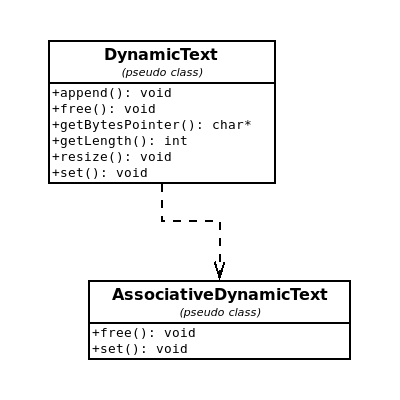
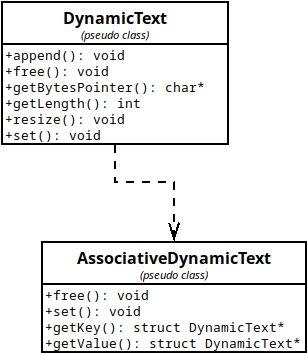
feat: Add two methods to pseudo class AssociativeDynamicText + update unit tests.

Changed region(s): [[0.0, 0.0, 0.7597, 0.5609], [0.1169, 0.4986, 1.0, 1.0], [0.5552, 0.4986, 0.5844, 0.5297]]

diff --git a/src/AssociativeDynamicText/AssociativeDynamicText.class.c b/src/AssociativeDynamicText/AssociativeDynamicText.class.c
@@ -11,11 +11,14 @@ struct AssociativeDynamicText {
     /* Function pointers for pseudo OOP in C. */
     void (*free)(struct AssociativeDynamicText** element, int* errorNumber, char* filename, int lineNumber);
     void (*set)(struct AssociativeDynamicText** element, char* text, int* errorNumber, char* filename, int lineNumber);
+    struct DynamicText* (*getKey)(struct AssociativeDynamicText** element, int* errorNumber, char* filename, int lineNumber);
+    struct DynamicText* (*getValue)(struct AssociativeDynamicText** element, int* errorNumber, char* filename, int lineNumber);
 };
-
 
 void freeAssociativeDynamicText(struct AssociativeDynamicText** element, int* errorNumber, char* filename, int lineNumber);
 void setValueInAssociativeDynamicText(struct AssociativeDynamicText** element, char* text, int* errorNumber, char* filename, int lineNumber);
+struct DynamicText* getKeyInAssociativeDynamicText(struct AssociativeDynamicText** element, int* errorNumber, char* filename, int lineNumber);
+struct DynamicText* getValueInAssociativeDynamicText(struct AssociativeDynamicText** element, int* errorNumber, char* filename, int lineNumber);
 
 
 struct AssociativeDynamicText*
@@ -56,6 +59,8 @@ allocateAssociativeDynamicTextByKey(char* key, int* errorNumber, char* filename,
     /* Function pointers for pseudo OOP in C. */
     element->free = &freeAssociativeDynamicText;
     element->set = &setValueInAssociativeDynamicText;
+    element->getKey = &getKeyInAssociativeDynamicText;
+    element->getValue = &getValueInAssociativeDynamicText;
 
     *errorNumber = 0;
 
@@ -120,4 +125,54 @@ setValueInAssociativeDynamicText(struct AssociativeDynamicText** element, char* 
     internalValue->set(&internalValue, text, errorNumber, filename, lineNumber);
 
     *errorNumber = 0;
+}
+
+
+struct DynamicText*
+getKeyInAssociativeDynamicText(struct AssociativeDynamicText** element, int* errorNumber, char* filename, int lineNumber)
+{
+    if (NULL == element)
+    {
+        appendMessageToErrorLog("Parameter \"element\" is NULL!", __func__, filename, lineNumber);
+        *errorNumber = 4000;
+
+        return NULL;
+    }
+
+    if (NULL == (*element))
+    {
+        appendMessageToErrorLog("Pointer \"element\" is NULL!", __func__, filename, lineNumber);
+        *errorNumber = 4010;
+
+        return NULL;
+    }
+
+    *errorNumber = 0;
+
+    return (*element)->internalKey;
+}
+
+
+struct DynamicText*
+getValueInAssociativeDynamicText(struct AssociativeDynamicText** element, int* errorNumber, char* filename, int lineNumber)
+{
+    if (NULL == element)
+    {
+        appendMessageToErrorLog("Parameter \"element\" is NULL!", __func__, filename, lineNumber);
+        *errorNumber = 5000;
+
+        return NULL;
+    }
+
+    if (NULL == (*element))
+    {
+        appendMessageToErrorLog("Pointer \"element\" is NULL!", __func__, filename, lineNumber);
+        *errorNumber = 5010;
+
+        return NULL;
+    }
+
+    *errorNumber = 0;
+
+    return (*element)->internalValue;
 }

diff --git a/src/AssociativeDynamicText/unit_tests/AssociativeDynamicTextNegativeTests.c b/src/AssociativeDynamicText/unit_tests/AssociativeDynamicTextNegativeTests.c
@@ -267,6 +267,76 @@ executeNegativeTest7(void)
 }
 
 
+static void
+executeNegativeTest8(void)
+{
+    char* titleFromTest = "#08 Get key and value from NULL parameter and NULL pointer!";
+
+    /* ### */
+    int errorNumber = 42;
+    struct AssociativeDynamicText* var1 = allocateAssociativeDynamicTextByKey("key1", &errorNumber, __FILE__, __LINE__);
+    struct AssociativeDynamicText* var2 = NULL;
+
+    if ((NULL == var1) || (0 != errorNumber))
+    {
+        abortTestWithErrorMessage(titleFromTest, __func__, __FILE__, __LINE__);
+    }
+
+    /* ### */
+    errorNumber = 42;
+    var1->getKey(NULL, &errorNumber, __FILE__, __LINE__);
+
+    if (4000 != errorNumber)
+    {
+        abortTestWithErrorMessage(titleFromTest, __func__, __FILE__, __LINE__);
+    }
+
+    /* ### */
+    errorNumber = 42;
+    var1->getKey(&var2, &errorNumber, __FILE__, __LINE__);
+
+    if (4010 != errorNumber)
+    {
+        abortTestWithErrorMessage(titleFromTest, __func__, __FILE__, __LINE__);
+    }
+
+    /* ### */
+    errorNumber = 42;
+    var1->getValue(NULL, &errorNumber, __FILE__, __LINE__);
+
+    if (5000 != errorNumber)
+    {
+        abortTestWithErrorMessage(titleFromTest, __func__, __FILE__, __LINE__);
+    }
+
+    /* ### */
+    errorNumber = 42;
+    var1->getValue(&var2, &errorNumber, __FILE__, __LINE__);
+
+    if (5010 != errorNumber)
+    {
+        abortTestWithErrorMessage(titleFromTest, __func__, __FILE__, __LINE__);
+    }
+
+    /* ### */
+    errorNumber = 42;
+    var1->free(&var1, &errorNumber, __FILE__, __LINE__);
+
+    if (
+        (0 == errorNumber)
+        && (NULL == var1)
+        && (globaleAmountOfAllocations == globaleAmountOfFrees)
+        && (0 == globaleAmountOfAllocatedMemoryInBytes)
+    )
+    {
+        printf("[SUCCESS] %s\n", titleFromTest);
+        return;
+    }
+
+    abortTestWithErrorMessage(titleFromTest, __func__, __FILE__, __LINE__);
+}
+
+
 int
 main(void)
 {
@@ -282,6 +352,7 @@ main(void)
     executeNegativeTest5();
     executeNegativeTest6();
     executeNegativeTest7();
+    executeNegativeTest8();
 
     return EXIT_SUCCESS;
 }

diff --git a/src/AssociativeDynamicText/unit_tests/AssociativeDynamicTextPositiveTests.c b/src/AssociativeDynamicText/unit_tests/AssociativeDynamicTextPositiveTests.c
@@ -44,8 +44,21 @@ executePositiveTest1(void)
     }
 
     /* ### */
-    struct DynamicText* key = var1->internalKey;
-    struct DynamicText* value = var1->internalValue;
+    errorNumber = 42;
+    struct DynamicText* key = var1->getKey(&var1, &errorNumber, __FILE__, __LINE__);
+    if (0 != errorNumber)
+    {
+        abortTestWithErrorMessage(titleFromTest, __func__, __FILE__, __LINE__);
+    }
+
+    errorNumber = 42;
+    struct DynamicText* value = var1->getValue(&var1, &errorNumber, __FILE__, __LINE__);
+    if (0 != errorNumber)
+    {
+        abortTestWithErrorMessage(titleFromTest, __func__, __FILE__, __LINE__);
+    }
+
+    /* ### */
     errorNumber = 42;
 
     if (

diff --git a/examples/AssociativeDynamicText.c b/examples/AssociativeDynamicText.c
@@ -24,10 +24,10 @@ main(void)
 
     var1->set(&var1, "This is a sentence (ÄÖÜäöüß@µ).", &errorNumber, __FILE__, __LINE__);
 
-    struct DynamicText* key = var1->internalKey;
+    struct DynamicText* key = var1->getKey(&var1, &errorNumber, __FILE__, __LINE__);
     printf("KEY:\n\"%s\"\n\n", key->getBytesPointer(&key, &errorNumber));
 
-    struct DynamicText* value = var1->internalValue;
+    struct DynamicText* value = var1->getValue(&var1, &errorNumber, __FILE__, __LINE__);
     printf("VALUE:\n\"%s\"\n", value->getBytesPointer(&value, &errorNumber));
 
     var1->free(&var1, &errorNumber, __FILE__, __LINE__);

diff --git a/examples/AssociativeDynamicTextList.c b/examples/AssociativeDynamicTextList.c
@@ -40,7 +40,7 @@ main(void)
     if (list1->isKeyExisting(&list1, "key2", &errorNumber, __FILE__, __LINE__))
     {
         struct AssociativeDynamicText* element = list1->getElement(&list1, "key2", &errorNumber, __FILE__, __LINE__);
-        struct DynamicText* text = element->internalValue;
+        struct DynamicText* text = element->getValue(&element, &errorNumber, __FILE__, __LINE__);
         printf("Text from second list element:\n\"%s\"\n", text->getBytesPointer(&text, &errorNumber));
     }
 
